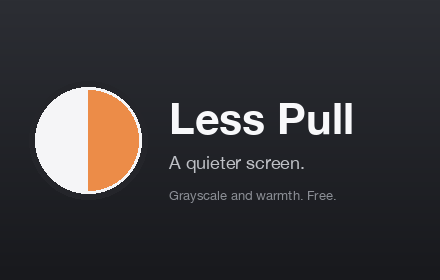
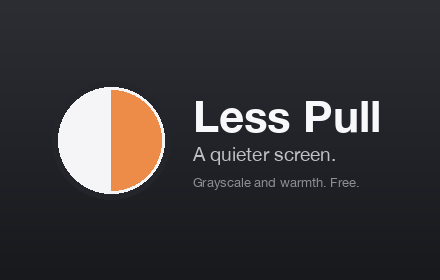
Promo tiles: group centered

Changed region(s): [[0.0591, 0.2857, 0.8864, 0.7143]]

diff --git a/docs/assets/src/promo-tiles.py b/docs/assets/src/promo-tiles.py
@@ -1,4 +1,4 @@
-# Chrome Web Store promo tiles (small 440×280, large 1400×560): the mark, the name, one line. No alpha.
+# Chrome Web Store promo tiles (small 440×280, large 1400×560): the mark, the name, two lines, the whole group centered. No alpha.
 import sys
 from PIL import Image, ImageDraw, ImageFont
 import numpy as np
@@ -11,15 +11,18 @@ def font(size, bold=False):
 def tile(W, H, name):
     g = np.linspace(0, 1, H)[:, None]; top, bot = np.array([44, 46, 52]), np.array([24, 25, 29])
     im = Image.fromarray((top * (1 - g) + bot * g)[:, None, :].repeat(W, 1).reshape(H, W, 3).astype('uint8'), 'RGB'); d = ImageDraw.Draw(im)
-    r = int(H * 0.22); cx, cy = int(W * 0.24), H // 2
-    if W / H < 2:  # the small tile is squarer: smaller mark, smaller type, so the lines fit
-        r = int(H * 0.19); cx = int(W * 0.2)
+    wide = W / H >= 2; k = 1.0 if wide else 0.8
+    r = int(H * (0.22 if wide else 0.19)); gap = int(H * 0.1)
+    big = font(int(H * 0.2 * k), True); small = font(int(H * 0.085 * k)); tiny = font(int(H * 0.062 * k))
+    lines = [('Less Pull', big, (248, 248, 250)), ('A quieter screen.', small, (190, 192, 198)), ('Grayscale and warmth for your Mac. Free.' if wide else 'Grayscale and warmth. Free.', tiny, (140, 143, 150))]
+    heights = [d.textbbox((0, 0), t, font=f)[3] for t, f, _ in lines]; spacing = int(H * 0.035)
+    text_w = max(d.textlength(t, font=f) for t, f, _ in lines); text_h = sum(heights) + spacing * 2
+    group_w = 2 * r + gap + text_w; x0 = (W - group_w) / 2; cy = H / 2
+    cx = x0 + r
     d.ellipse((cx - r - 6, cy - r - 6, cx + r + 6, cy + r + 6), fill=(36, 37, 42))
     d.pieslice((cx - r, cy - r, cx + r, cy + r), 90, 270, fill=(245, 245, 247)); d.pieslice((cx - r, cy - r, cx + r, cy + r), 270, 450, fill=(236, 140, 72)); d.ellipse((cx - r, cy - r, cx + r, cy + r), outline=(245, 245, 247), width=max(3, H // 90))
-    k = 1.0 if W / H >= 2 else 0.78
-    x = cx + r + int(H * 0.1); big = font(int(H * 0.2 * k), True); small = font(int(H * 0.085 * k)); tiny = font(int(H * 0.062 * k))
-    d.text((x, cy - int(H * 0.22 * k)), 'Less Pull', font=big, fill=(248, 248, 250)); d.text((x, cy + int(H * 0.04)), 'A quieter screen.', font=small, fill=(190, 192, 198))
-    line3 = 'Grayscale and warmth for your Mac. Free.' if W / H >= 2 else 'Grayscale and warmth. Free.'
-    d.text((x, cy + int(H * 0.17)), line3, font=tiny, fill=(140, 143, 150))
+    x = x0 + 2 * r + gap; y = cy - text_h / 2
+    for (t, f, col), h in zip(lines, heights):
+        d.text((x, y), t, font=f, fill=col); y += h + spacing
     im.save(f'{out}/{name}', optimize=True); print(name, im.size)
 tile(440, 280, 'promo-small-440x280.png'); tile(1400, 560, 'promo-large-1400x560.png')
